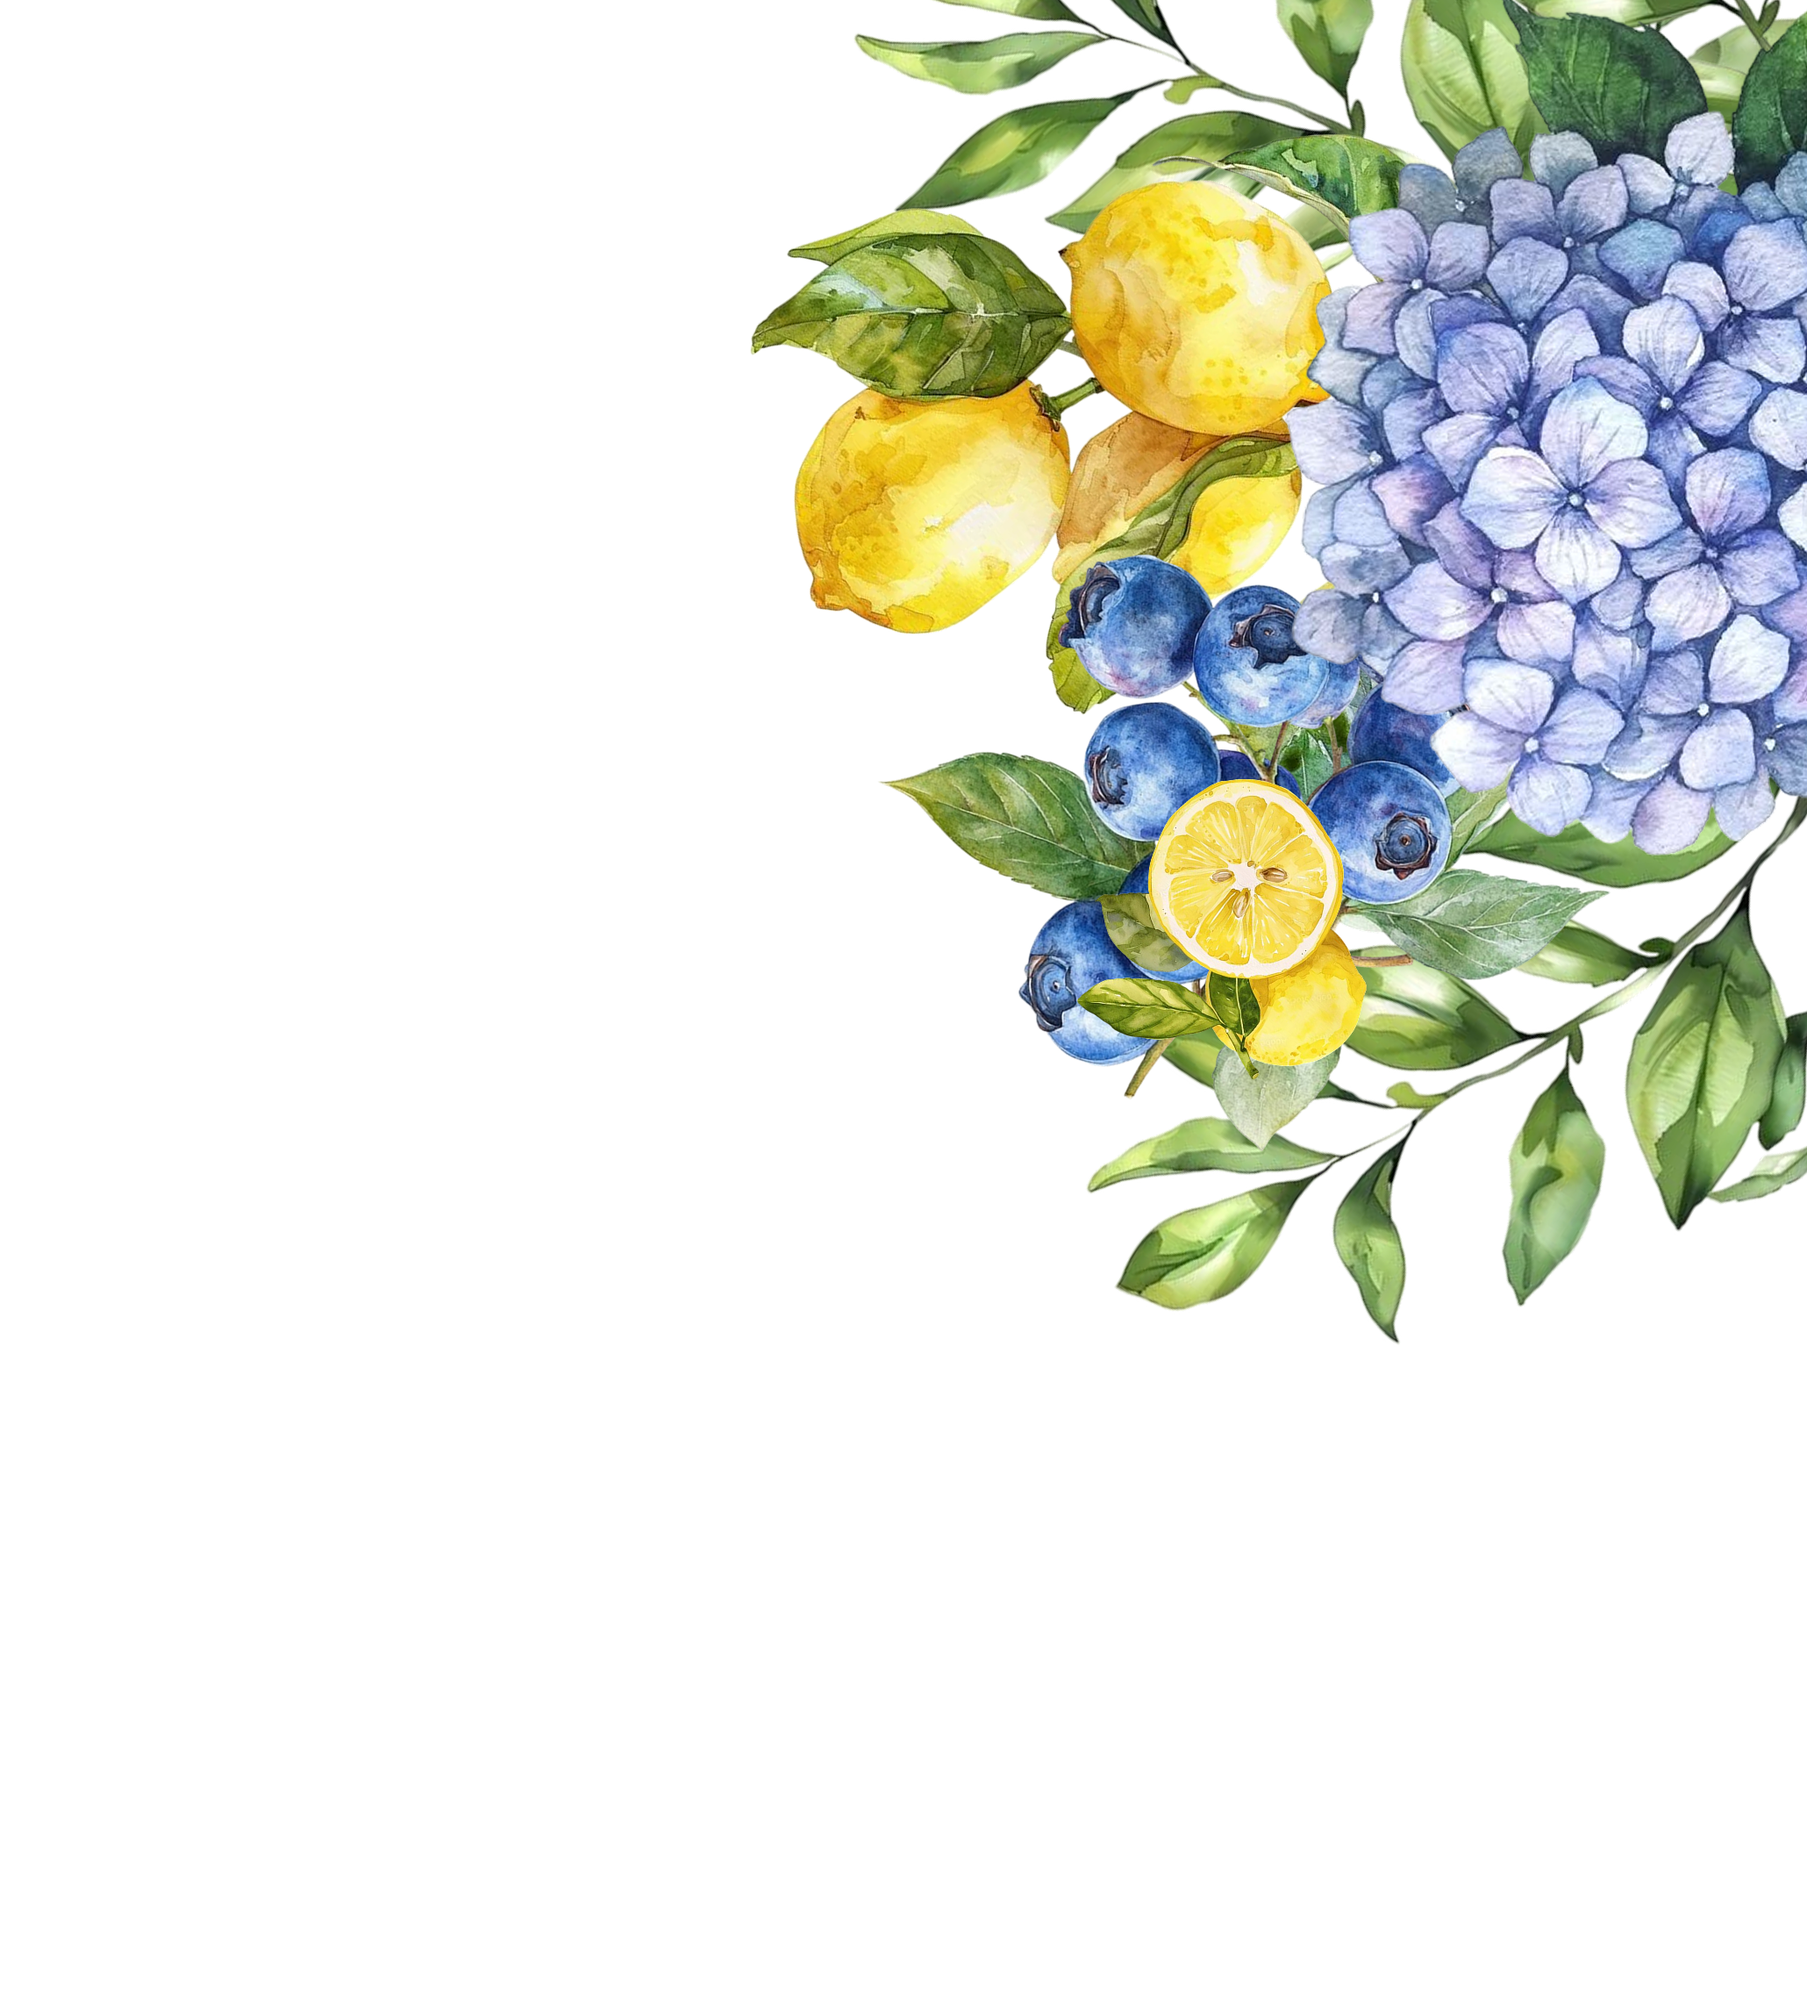
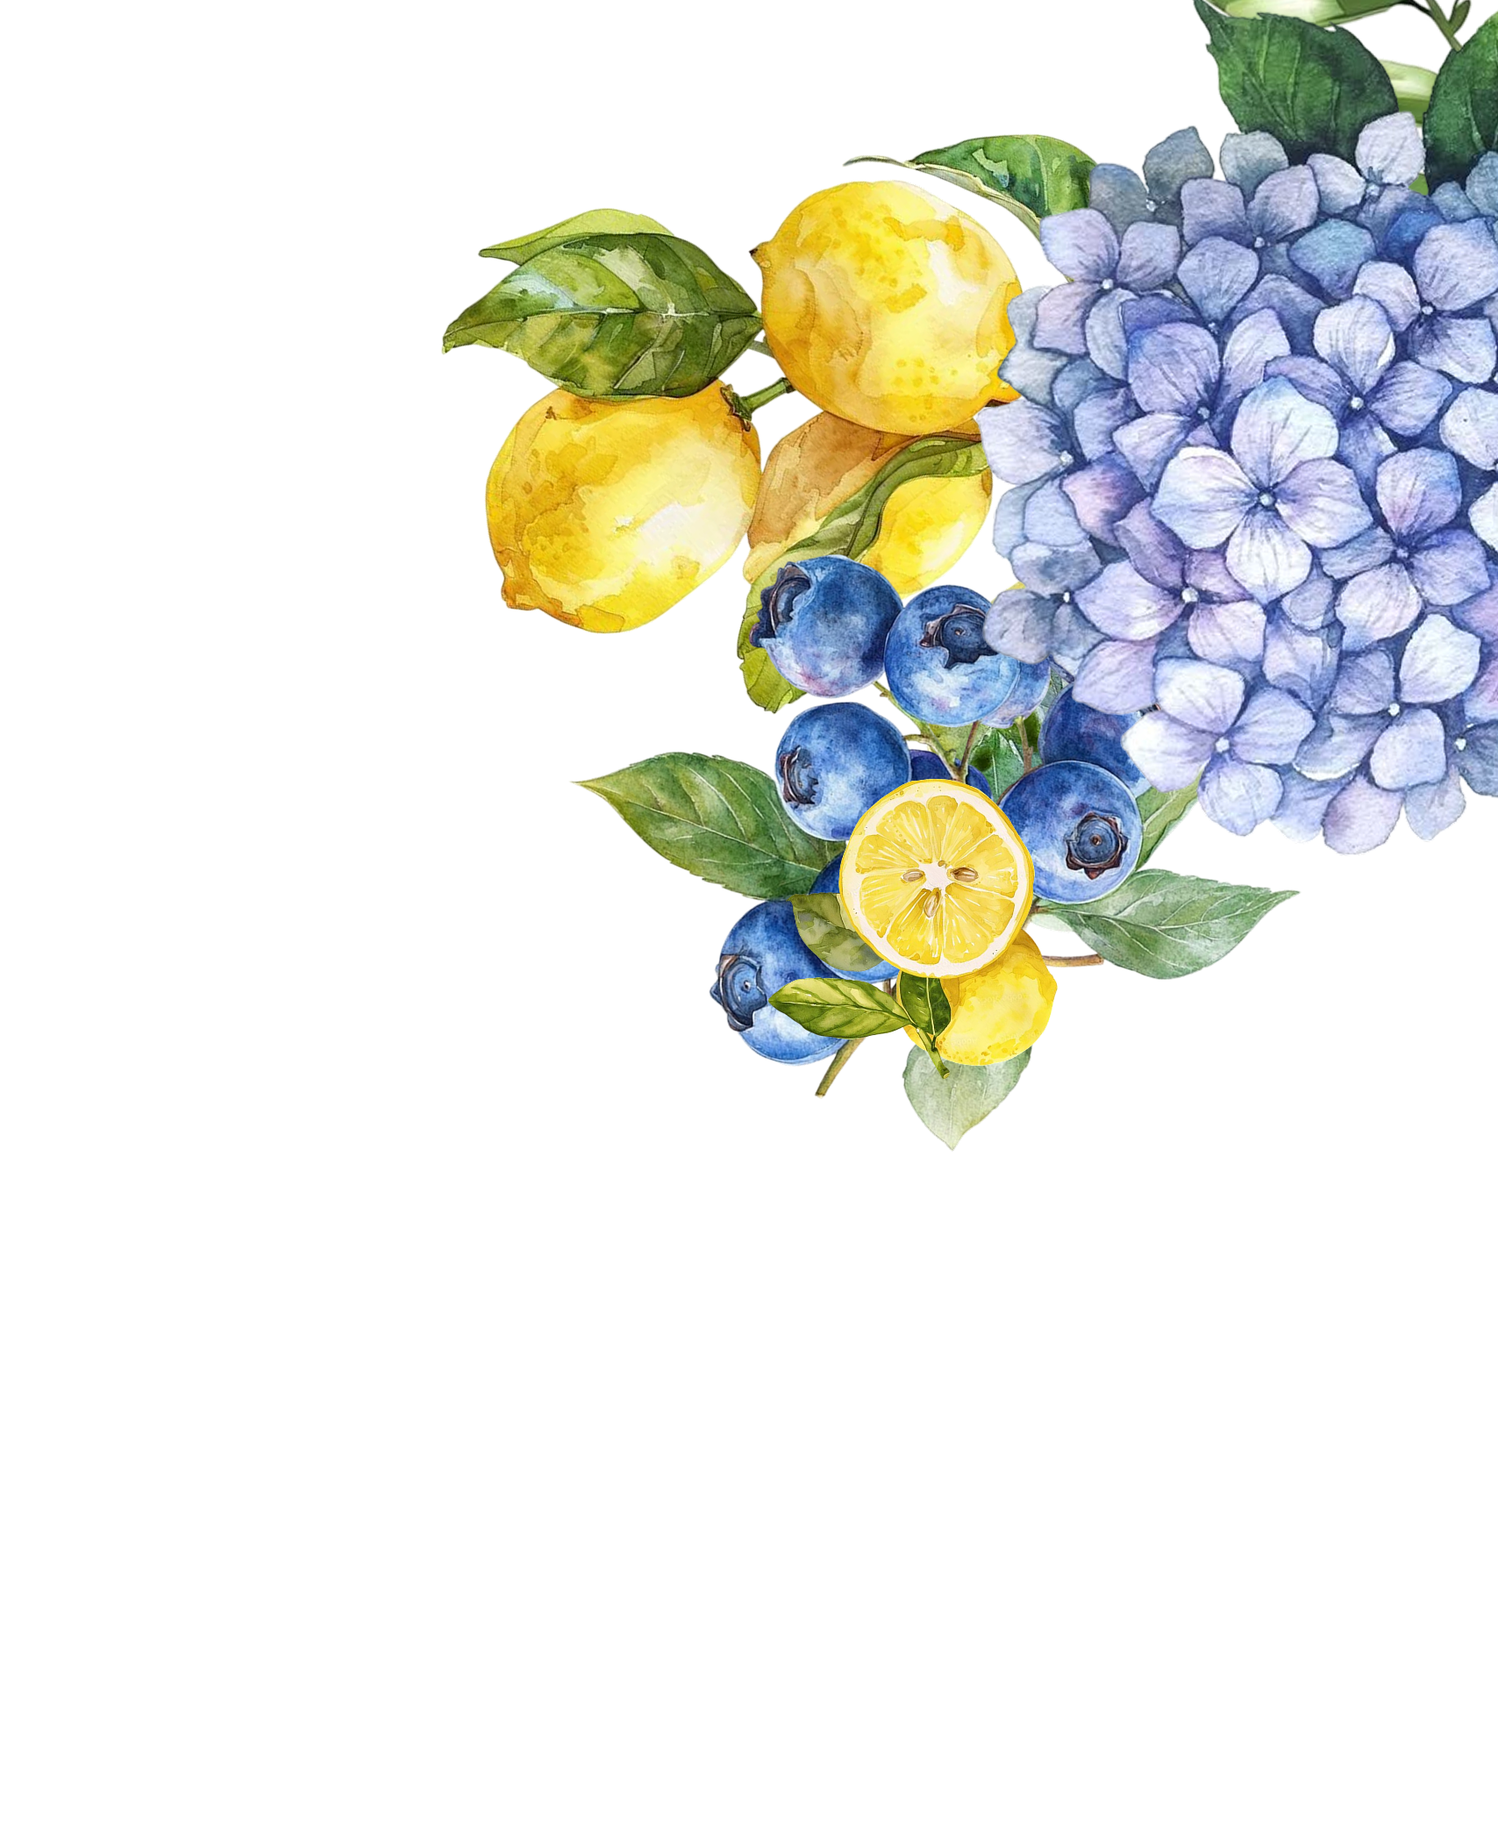
feat: animation hero

Changed region(s): [[0.2793, 0.0, 1.0, 0.6782]]

diff --git a/app/components/WeddingAryaRana/Hero.tsx b/app/components/WeddingAryaRana/Hero.tsx
@@ -111,10 +111,16 @@ export default function Hero({ data, isOpen, setIsOpen }: HeroProps) {
 
         {/* Dekstop */}
         <Image src="/images/arya-dan-rana/dekstop/img-kiri-atas-hero.png" alt="Picture of gambar kiri atas hero" width={320} height={569} className={`hidden md:block w-[250px] absolute z-[3] left-0 top-0 pointer-events-none ${isOpen ? 'sway-stretch' : ''}`} style={{ animationDelay: '0.5s' }} />
+
+        <Image src="/images/arya-dan-rana/mobile/img-daun-kanan-atas-hero-1.png" alt="Picture of gambar kiri atas hero" width={402} height={502} className={`hidden md:block absolute z-[3] right-0 -top-[80px] pointer-events-none ${isOpen ? 'sway-stretch-up' : ''}`} style={{ animationDelay: '0.5s' }} />
+        <Image src="/images/arya-dan-rana/mobile/img-daun-kanan-atas-hero-2.png" alt="Picture of gambar kiri atas hero" width={282} height={502} className={`hidden md:block absolute z-[3] right-0 -top-[180px] pointer-events-none ${isOpen ? 'sway-stretch-up' : ''}`} style={{ animationDelay: '0.5s' }} />
         <Image src="/images/arya-dan-rana/dekstop/img-kanan-atas-hero.png" alt="Picture of gambar kiri atas hero" width={615} height={697} className={`hidden md:block w-[500px] absolute z-[3] right-0 top-0 pointer-events-none`} />
 
+        <Image src="/images/arya-dan-rana/mobile/img-daun-kiri-bawah-hero-1.png" alt="Picture of gambar kiri bawah hero" width={369} height={657} className={`hidden md:block absolute z-[3] left-0 -bottom-[100px] pointer-events-none ${isOpen ? 'sway-stretch-left' : ''}`} style={{ animationDelay: '0.5s' }} />
         <Image src="/images/arya-dan-rana/dekstop/img-kiri-bawah-hero.png" alt="Picture of gambar kiri bawah hero" width={642} height={751} className={`hidden md:block w-[350px] absolute z-[3] left-0 -bottom-[50px] pointer-events-none`} />
-        <Image src="/images/arya-dan-rana/dekstop/img-kanan-bawah-hero.png" alt="Picture of gambar kiri bawah hero" width={649} height={583} className={`hidden md:block w-[350px] absolute z-[3] right-0 -bottom-[150px] pointer-events-none`} />
+
+        <Image src="/images/arya-dan-rana/mobile/img-daun-kanan-bawah-hero-1.png" alt="Picture of gambar kiri atas hero" width={419} height={748} className={`hidden md:block absolute z-[3] right-0 -bottom-[300px] pointer-events-none ${isOpen ? 'sway-stretch-right' : ''}`} style={{ animationDelay: '0.5s' }} />
+        <Image src="/images/arya-dan-rana/dekstop/img-kanan-bawah-hero.png" alt="Picture of gambar kiri bawah hero" width={294} height={312} className={`hidden md:block absolute z-[3] right-0 bottom-0 pointer-events-none`} />
       </section>
     </>
   )

diff --git a/app/components/WeddingAryaRana/index.tsx b/app/components/WeddingAryaRana/index.tsx
@@ -145,12 +145,12 @@ export default function WeddingAryaRana({ data }: Props) {
 
   return (
     <>
-      <audio
+      {/* <audio
         ref={audioRef}
         loop
         preload="auto"
         src={`https://media.twinklebook.com/${dataContent?.backgroundSoundData?.url}`}
-      />
+      /> */}
       <Header isOpen={isOpen} />
       <Hero data={data} isOpen={isOpen} setIsOpen={setIsOpen} />
       <Profile data={data} isOpen={isOpen} />
